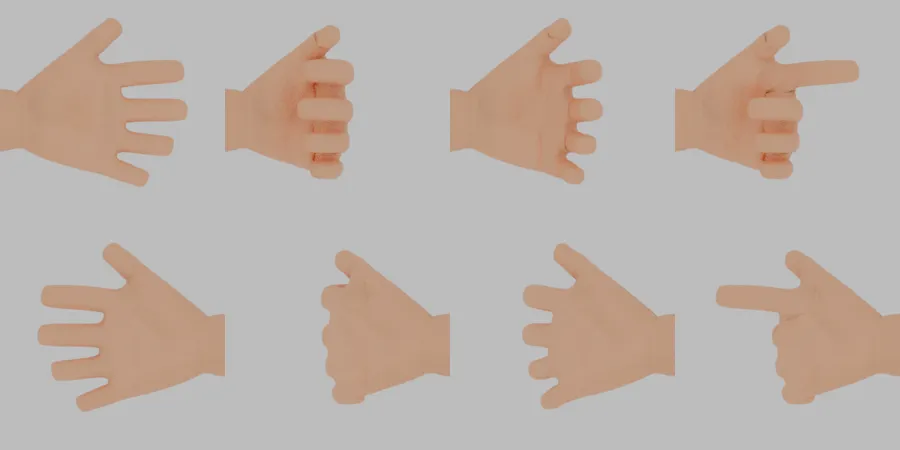
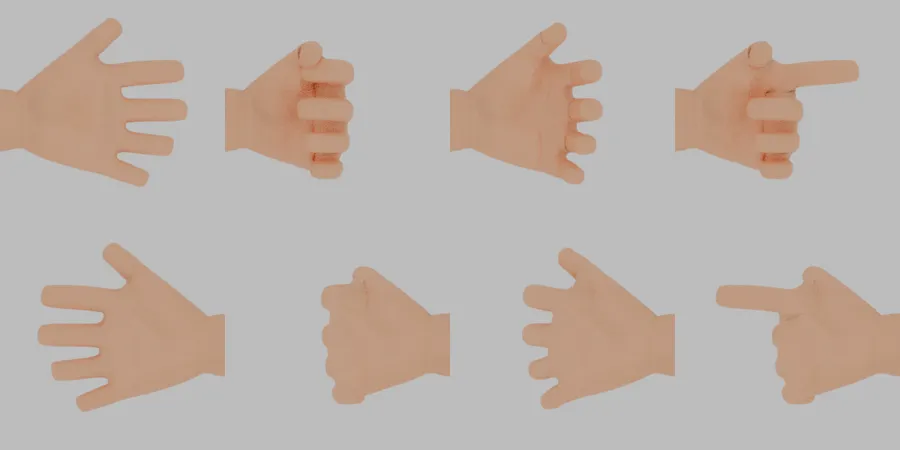
feat(nam-002): sửa háng, ngón cái nắm chặt hơn, chu kỳ đi bộ
Claude-Session: https://claude.ai/code/session_015xtvRfLqUD2K9LfPtx8x7k

diff --git a/assets/nhan-vat-3d/nam-002/di_bo_nam002.py b/assets/nhan-vat-3d/nam-002/di_bo_nam002.py
@@ -1,0 +1,117 @@
+"""CHU KỲ ĐI BỘ cho Nam_Rig (rig_nam002.py, dáng nghỉ chữ T) — Blender 5.2.x.
+
+  blender -b --factory-startup --python di_bo_nam002.py -- --rig nam-002-rig.blend --out nam-002-di-bo.blend [--anh xem-di] [--tien]
+Action `di_bo`: 1 chu kỳ 32 khung ở 24 fps (≈ 1,33 s), bước 0,62 m (sải 1,24 m/chu kỳ ≈ 0,93 m/s, đi thường).
+Mặc định đi tại chỗ (để lặp/ghép), `--tien` thì gốc tiến về −Y đều theo tốc độ bước.
+Chân: IK (ik_foot) — chân đứng trượt đều ra sau, chân vung nhấc và đặt gót trước (bàn chân gập lên khi chạm gót, gập xuống khi nhấc mũi).
+Thân: hông nhún 2 lần/chu kỳ, đảo ngang, xoay ngược vai; tay hạ từ chữ T rồi đánh ngược chân, khuỷu gập nhẹ.
+"""
+import sys, os, math, argparse
+import bpy
+import numpy as np
+from mathutils import Vector, Matrix, Quaternion
+
+
+def main():
+    argv = sys.argv[sys.argv.index('--') + 1:] if '--' in sys.argv else sys.argv[1:]
+    ap = argparse.ArgumentParser(); ap.add_argument('--rig', required=True); ap.add_argument('--out', required=True); ap.add_argument('--anh')
+    ap.add_argument('--khung', type=int, default=32); ap.add_argument('--buoc', type=float, default=0.62); ap.add_argument('--tien', action='store_true')
+    a = ap.parse_args(argv)
+    bpy.ops.wm.open_mainfile(filepath=os.path.abspath(a.rig)); sc = bpy.context.scene
+    arm = bpy.data.objects['Nam_Rig']; pb = arm.pose.bones
+    N, S = a.khung, a.buoc; H = 0.075
+    for b in pb: b.rotation_mode = 'QUATERNION'
+    rest = {b.name: arm.matrix_world @ b.bone.matrix_local for b in pb}
+
+    def set_world_rot(bn, R):
+        """Đặt xương = R (quay thế giới quanh đầu xương) ∘ dáng hiện tại của cha (giữ tương quan cha–con như lúc nghỉ)."""
+        b = pb[bn]; bpy.context.view_layer.update()
+        par = b.parent
+        M_par = (arm.matrix_world @ par.matrix) if par else arm.matrix_world
+        rel = (rest[par.name].inverted() @ rest[bn]) if par else rest[bn]
+        Mw = M_par @ rel; h = (arm.matrix_world @ b.matrix).translation.copy(); Mw.translation = h      # giữ vị trí hiện tại (vd. hông đã nhún/đảo)
+        Mw = Matrix.Translation(h) @ R.to_4x4() @ Matrix.Translation(-h) @ Mw
+        b.matrix = arm.matrix_world.inverted() @ Mw; bpy.context.view_layer.update()
+
+    def Rot(axis, deg): return Matrix.Rotation(math.radians(deg), 3, Vector(axis))
+
+    def move_loc(bn, d):
+        b = pb[bn]; b.location = b.bone.matrix_local.to_3x3().inverted() @ Vector(d)
+
+    def foot(phi):
+        """(dy, dz, pitch°) cho bàn chân; phi 0 = chạm gót trước. 0–0,6 đứng (trượt sau), 0,6–1 vung."""
+        if phi < 0.6:
+            t = phi / 0.6; dy = -S / 2 + S * t
+            pitch = 12 * max(0, 1 - t / 0.12) if t < 0.12 else (-25 * ((t - 0.85) / 0.15) if t > 0.85 else 0)   # gót chạm: mũi hếch; cuối: nhón mũi
+            dz = 0.0 if t < 0.85 else 0.03 * ((t - 0.85) / 0.15)
+            return dy, dz, pitch
+        t = (phi - 0.6) / 0.4; e = 0.5 - 0.5 * math.cos(math.pi * t)
+        dy = S / 2 - S * e; dz = 0.03 * (1 - t) + H * math.sin(math.pi * t) ** 1.3
+        pitch = -25 * (1 - t) ** 2 + 12 * t ** 3
+        return dy, dz, pitch
+
+    act = bpy.data.actions.new('di_bo'); arm.animation_data_create(); arm.animation_data.action = act
+    sc.frame_start, sc.frame_end = 1, N; sc.render.fps = 24
+    for f in range(N + 1):
+        phi = (f % N) / N; fr = f + 1
+        for b in pb: b.location = (0, 0, 0); b.rotation_quaternion = (1, 0, 0, 0)
+        bpy.context.view_layer.update()
+        fwd = -(S * 2) * (f / N) if a.tien else 0.0
+        move_loc('root', (0, fwd, 0))
+        for k, off in (('L', 0.0), ('R', 0.5)):
+            dy, dz, pitch = foot((phi + off) % 1.0)
+            move_loc(f'ik_foot.{k}', (0, dy, dz + 0.012))
+            ik = pb[f'ik_foot.{k}']; ik.rotation_quaternion = (ik.bone.matrix_local.to_3x3().inverted() @ Rot((1, 0, 0), pitch) @ ik.bone.matrix_local.to_3x3()).to_quaternion()
+        bob = -0.025 - 0.018 * math.cos(4 * math.pi * phi)            # thấp nhất khi hai chân chạm (phi 0; 0,5), cao nhất giữa pha một chân
+        sway = 0.022 * math.sin(2 * math.pi * phi)                     # dồn sang chân trái giữa pha trái đứng (phi ≈ 0,25)
+        move_loc('Hips', (sway, 0.0, bob)); bpy.context.view_layer.update()
+        yaw = 7 * math.cos(2 * math.pi * phi)                           # hông xoay theo chân trước
+        set_world_rot('Hips', Rot((0, 0, 1), yaw) @ Rot((0, 1, 0), -3 * math.cos(2 * math.pi * phi)))
+        set_world_rot('Spine', Rot((0, 0, 1), -yaw * 0.5) @ Rot((1, 0, 0), 3))
+        set_world_rot('Spine1', Rot((0, 0, 1), -yaw * 0.4))
+        set_world_rot('Spine2', Rot((0, 0, 1), -yaw * 0.4))
+        set_world_rot('Neck', Rot((0, 0, 1), yaw * 0.3)); set_world_rot('Head', Rot((0, 0, 1), yaw * 0.3) @ Rot((1, 0, 0), -2))
+        swing = 24 * math.cos(2 * math.pi * phi)                        # chân trái trước (phi 0) ⇒ tay trái ra sau
+        for S_, s in (('Left', 1), ('Right', -1)):
+            sg = 1 if S_ == 'Left' else -1
+            set_world_rot(f'{S_}Arm', Rot((1, 0, 0), sg * swing) @ Rot((0, 1, 0), s * 78))          # hạ tay 78° rồi đánh trước–sau
+            el = 18 + 12 * max(0.0, -sg * math.cos(2 * math.pi * phi))                               # khuỷu gập nhiều hơn khi tay ra trước
+            set_world_rot(f'{S_}ForeArm', Rot((1, 0, 0), -el))
+            set_world_rot(f'{S_}Hand', Rot((0, 0, 1), -s * 8))
+            hb = pb[f'{S_}Hand']; hb['nam'] = 0.25
+        bpy.context.view_layer.update()
+        for b in pb:
+            if b.name.startswith(('pole_',)): continue
+            b.keyframe_insert('rotation_quaternion', frame=fr)
+            if b.name in ('root', 'Hips') or b.name.startswith('ik_foot'): b.keyframe_insert('location', frame=fr)
+        for S_ in ('Left', 'Right'): pb[f'{S_}Hand'].keyframe_insert('["nam"]', frame=fr)
+    # kiểm: trượt chân đứng (so với mặt đất, khi đi tại chỗ phải trượt đúng tốc độ thân = S/(0,6N) mỗi khung)
+    sl, hmin = [], 9.0
+    for f in range(1, N + 1):
+        sc.frame_set(f); bpy.context.view_layer.update()
+        for k in ('Left', 'Right'):
+            p = arm.matrix_world @ pb[f'{k}Foot'].head; hmin = min(hmin, p.z)
+    print(f'  chu kỳ {N} khung @24fps; bước {S:.2f} m; mắt cá thấp nhất {hmin:.3f} m (nghỉ 0,090)')
+    if a.anh: render(sc, arm, os.path.abspath(a.anh), N)
+    sc['hoat_anh'] = f'di_bo: {N} khung @24fps, bước {S:.2f} m, ' + ('tiến −Y' if a.tien else 'tại chỗ')
+    bpy.ops.wm.save_as_mainfile(filepath=os.path.abspath(a.out), compress=True)
+    print('PASS: đã lưu', a.out)
+
+
+def render(sc, arm, out, N):
+    os.makedirs(out, exist_ok=True)
+    sc.render.engine = 'CYCLES'; sc.cycles.samples = 10; sc.cycles.use_denoising = False
+    sc.render.resolution_x = 280; sc.render.resolution_y = 380
+    w = sc.world or bpy.data.worlds.new('w'); sc.world = w; w.use_nodes = True; w.node_tree.nodes['Background'].inputs[0].default_value = (.8, .8, .8, 1)
+    cd = bpy.data.cameras.new('cam'); cd.type = 'ORTHO'; cd.ortho_scale = 1.95
+    cam = bpy.data.objects.new('cam', cd); sc.collection.objects.link(cam); sc.camera = cam; arm.hide_render = True
+    for view, d in (('ben', (1, 0, 0.05)), ('truoc', (0.35, -1, 0.1))):
+        for i in range(8):
+            f = 1 + int(N * i / 8); sc.frame_set(f)
+            t = Vector(((arm.matrix_world @ arm.pose.bones['root'].head).x, (arm.matrix_world @ arm.pose.bones['root'].head).y, 0.85))
+            cam.location = t + 3 * Vector(d).normalized(); cam.rotation_euler = (t - cam.location).to_track_quat('-Z', 'Y').to_euler()
+            sc.render.filepath = os.path.join(out, f'{view}_{i}.png'); bpy.ops.render.render(write_still=True)
+    bpy.data.objects.remove(cam)
+
+
+main()

diff --git a/assets/nhan-vat-3d/nam-002/rig_nam002.py b/assets/nhan-vat-3d/nam-002/rig_nam002.py
@@ -30,7 +30,7 @@ J = dict(
 FING = [('Index', 1.300, (1.285, 1.315)), ('Middle', 1.263, (1.248, 1.278)), ('Ring', 1.232, (1.216, 1.245)), ('Pinky', 1.205, (1.185, 1.215))]
 THUMB = [(0.540, 0.030, 1.285), (0.575, 0.033, 1.318), (0.598, 0.036, 1.338)]       # gốc, khớp 1, khớp 2 (đầu ngón đo tự động)
 SPLIT = (0.42, 0.32, 0.26)
-CURL = {'Index': (55, 75, 45), 'Middle': (55, 75, 45), 'Ring': (55, 75, 45), 'Pinky': (55, 75, 45), 'Thumb': (15, 30, 40)}
+CURL = {'Index': (55, 75, 45), 'Middle': (55, 75, 45), 'Ring': (55, 75, 45), 'Pinky': (55, 75, 45), 'Thumb': (35, 45, 50)}
 PROPS = {'Index': 'nam_tro', 'Middle': 'nam_giua', 'Ring': 'nam_ap', 'Pinky': 'nam_ut', 'Thumb': 'nam_cai'}
 HEAD_Z = 1.40
 CH = {}
@@ -269,8 +269,10 @@ def clean_weights(body):
     arm_zone = ax > 0.20                                                    # tay chữ T: ngoài vai
     leg_zone = z < 0.80
 
+    crotch_w = 0.01 + 0.035 * sm(0.92, 0.84, z) * sm(0.66, 0.74, z)      # đáy háng: vùng chuyển trái–phải rộng ±4,5 cm thay vì ±1 cm
+
     def rules(W):
-        fL = sm(-0.01, 0.01, x)
+        fL = sm(-crotch_w, crotch_w, x)
         for n, i in I.items():
             if n.startswith('Left'): W[:, i] *= fL
             elif n.startswith('Right'): W[:, i] *= 1 - fL
@@ -323,6 +325,12 @@ def clean_weights(body):
         Wh[:, I[f'{S}Hand']] += 1 - Wh.sum(1)
         al = sm(0.555, 0.575, P[:, 0])[:, None]
         W[H] = (1 - al) * W[H] + al * Wh
+    crotch = (~head) & (ax < 0.06) & (z > 0.68) & (z < 0.88)               # đáy háng: pha 35 % Hips để da giữa hai chân không bị xé khi bước
+    fc = (0.35 * sm(0.06, 0.02, ax) * sm(0.68, 0.74, z) * sm(0.88, 0.82, z))[:, None]
+    eh = np.zeros(ng, np.float32); eh[I['Hips']] = 1; W = (1 - fc) * W + fc * eh
+    W = lap(W, crotch, 60, 0.5)
+    W = lap(W, (~head) & (z > 0.78) & (z < 1.02) & (ax < 0.18) & (y > 0.0), 120, 0.6)   # mông: chuyển Hips–UpLeg dài hơn cho dáng ngồi
+    W = rules(W)
     W[W < 0.01] = 0; W /= W.sum(1, keepdims=True)
     for g in body.vertex_groups: g.remove(list(range(nv)))
     nz = np.nonzero(W > 1e-4)

diff --git a/assets/nhan-vat-3d/nam-002/README.md b/assets/nhan-vat-3d/nam-002/README.md
@@ -38,6 +38,7 @@ File `.blend` và `.glb` đã rig nặng khoảng 26 MB nên không đưa lên G
 - **Đỉnh trùng ở đường nối UV:** khi nhập GLB, đỉnh ở đường nối UV bị nhân đôi (lưới thành 1.176 mảnh). Mỗi bản sao nhận trọng số hơi khác nên đường nối hở thành khe tối khi tạo dáng. Script hàn các đỉnh trùng trước khi rig: số đỉnh giảm từ 139.506 xuống 128.506, còn 38 cạnh hở.
 - **Bone heat trên lưới gốc thất bại**, toàn bộ đỉnh không có trọng số. Script chạy bone heat trên một lưới voxel kín (4 mm, giản lược 30%) rồi chép trọng số sang lưới gốc.
 - **Luật vùng:** trái chỉ theo xương trái, phải chỉ theo xương phải. Chuyển tiếp mềm từ thân sang tay ở |x| 0,17–0,26 và từ thân sang chân ở z 0,88–1,00. Đầu đi cứng theo `Head` từ z = 1,40, cổ pha dần từ `Spine2` qua `Neck` sang `Head`. Ngón tay có trọng số tính theo hình học. Sau cùng làm mượt vai và háng, rồi thêm Corrective Smooth (30 vòng) cho hai vùng này.
+- **Háng:** ở đáy háng, vùng chuyển giữa chân trái và chân phải được nới rộng thành ±4,5 cm và pha thêm 35% trọng số `Hips`. Vùng mông được làm mượt thêm cho dáng ngồi. Nhờ vậy dáng bước giảm từ 379 xuống 4 cạnh giãn. Dáng ngồi xổm còn giãn ở hông và mông, nhưng nhìn ảnh không thấy rách.
 - **Mốc khớp:** gối được đặt nhô trước 1,7 cm và khuỷu lùi sau 1 cm so với đường thẳng nối hai khớp hai đầu, để IK gập đúng chiều. Trước khi sửa, gối bị gập vào trong.
 
 ## Kết quả đo
@@ -52,15 +53,29 @@ Bảng dưới đếm số cạnh lưới bị kéo dài hơn 2 lần so với d
 | nắm tay | 0 | 1,87× |
 | quay đầu | 4 | 2,25× |
 | xoay thân | 0 | 1,80× |
-| bước chân (IK) | 379 | 5,70× |
-| ngồi xổm (IK) | 741 | 3,63× |
+| bước chân (IK) | 4 | 2,26× |
+| ngồi xổm (IK) | 675 | 3,37× |
 
 Dáng nghỉ lệch tối đa 0,02 mm so với lưới gốc. Ảnh kiểm tra: [vai khi hạ tay](vai-ha-tay.webp) và [bàn tay](ban-tay.webp), từ trái sang là xòe, nắm, nửa nắm, chỉ tay.
 
 ## Chưa làm
 
 - Chưa có rig mặt, shape key hay viseme.
-- Ngón cái chỉ khép nhẹ khi nắm.
-- Háng và đùi còn giãn khi bước dài hoặc ngồi xổm.
 - Mặt sau vai còn vài nếp nhỏ khi hạ tay.
-- Chưa chạy `walk.py` hay `chep_dong.py` cho rig này: hai script đó viết cho `Goc_Rig` ở dáng chữ A.
+- `chep_dong.py` (chép động tác Mixamo) chưa chạy thử trên rig này.
+- Đi bộ mới có một nhịp (đi thường). Chưa có đi chậm, đi nhanh hay rẽ, và chưa đo độ trượt của chân đứng.
+
+## Đi bộ
+
+`di_bo_nam002.py` tạo action `di_bo`: một chu kỳ 32 khung ở 24 fps (khoảng 1,33 giây), bước dài 0,62 m. Mặc định nhân vật đi tại chỗ để dễ lặp và ghép cảnh. Thêm `--tien` thì nhân vật tiến về hướng −Y.
+
+```powershell
+D:/blender/blender.exe -b --factory-startup --python di_bo_nam002.py -- --rig nam-002-rig.blend --out nam-002-di-bo.blend --anh xem-di
+```
+
+- **Chân:** dùng IK. Gót chạm đất trước, mũi chân hếch lên. Chân đứng trượt đều ra sau, nhón mũi trước khi nhấc. Chân vung lên cao 7,5 cm.
+- **Thân:** hông nhún thấp nhất khi hai chân cùng chạm đất (biên độ 3,6 cm). Hông đảo sang bên chân đang đứng. Vai xoay ngược với hông.
+- **Tay:** hạ 78° từ dáng chữ T rồi đánh ngược với chân, khuỷu gập nhẹ, bàn tay khép hờ (`nam` = 0,25).
+- **Kiểm bằng số:** khi chân trái ra trước xa nhất (y = −0,29) thì tay trái ra sau (y = +0,10). Hông thấp nhất (z = 0,887) ở khung 1 và khung 17, cao nhất (0,923) ở khung 9.
+
+[Ảnh 8 khung](di-bo.webp): hàng trên nhìn bên, hàng dưới nhìn chéo phía trước.
